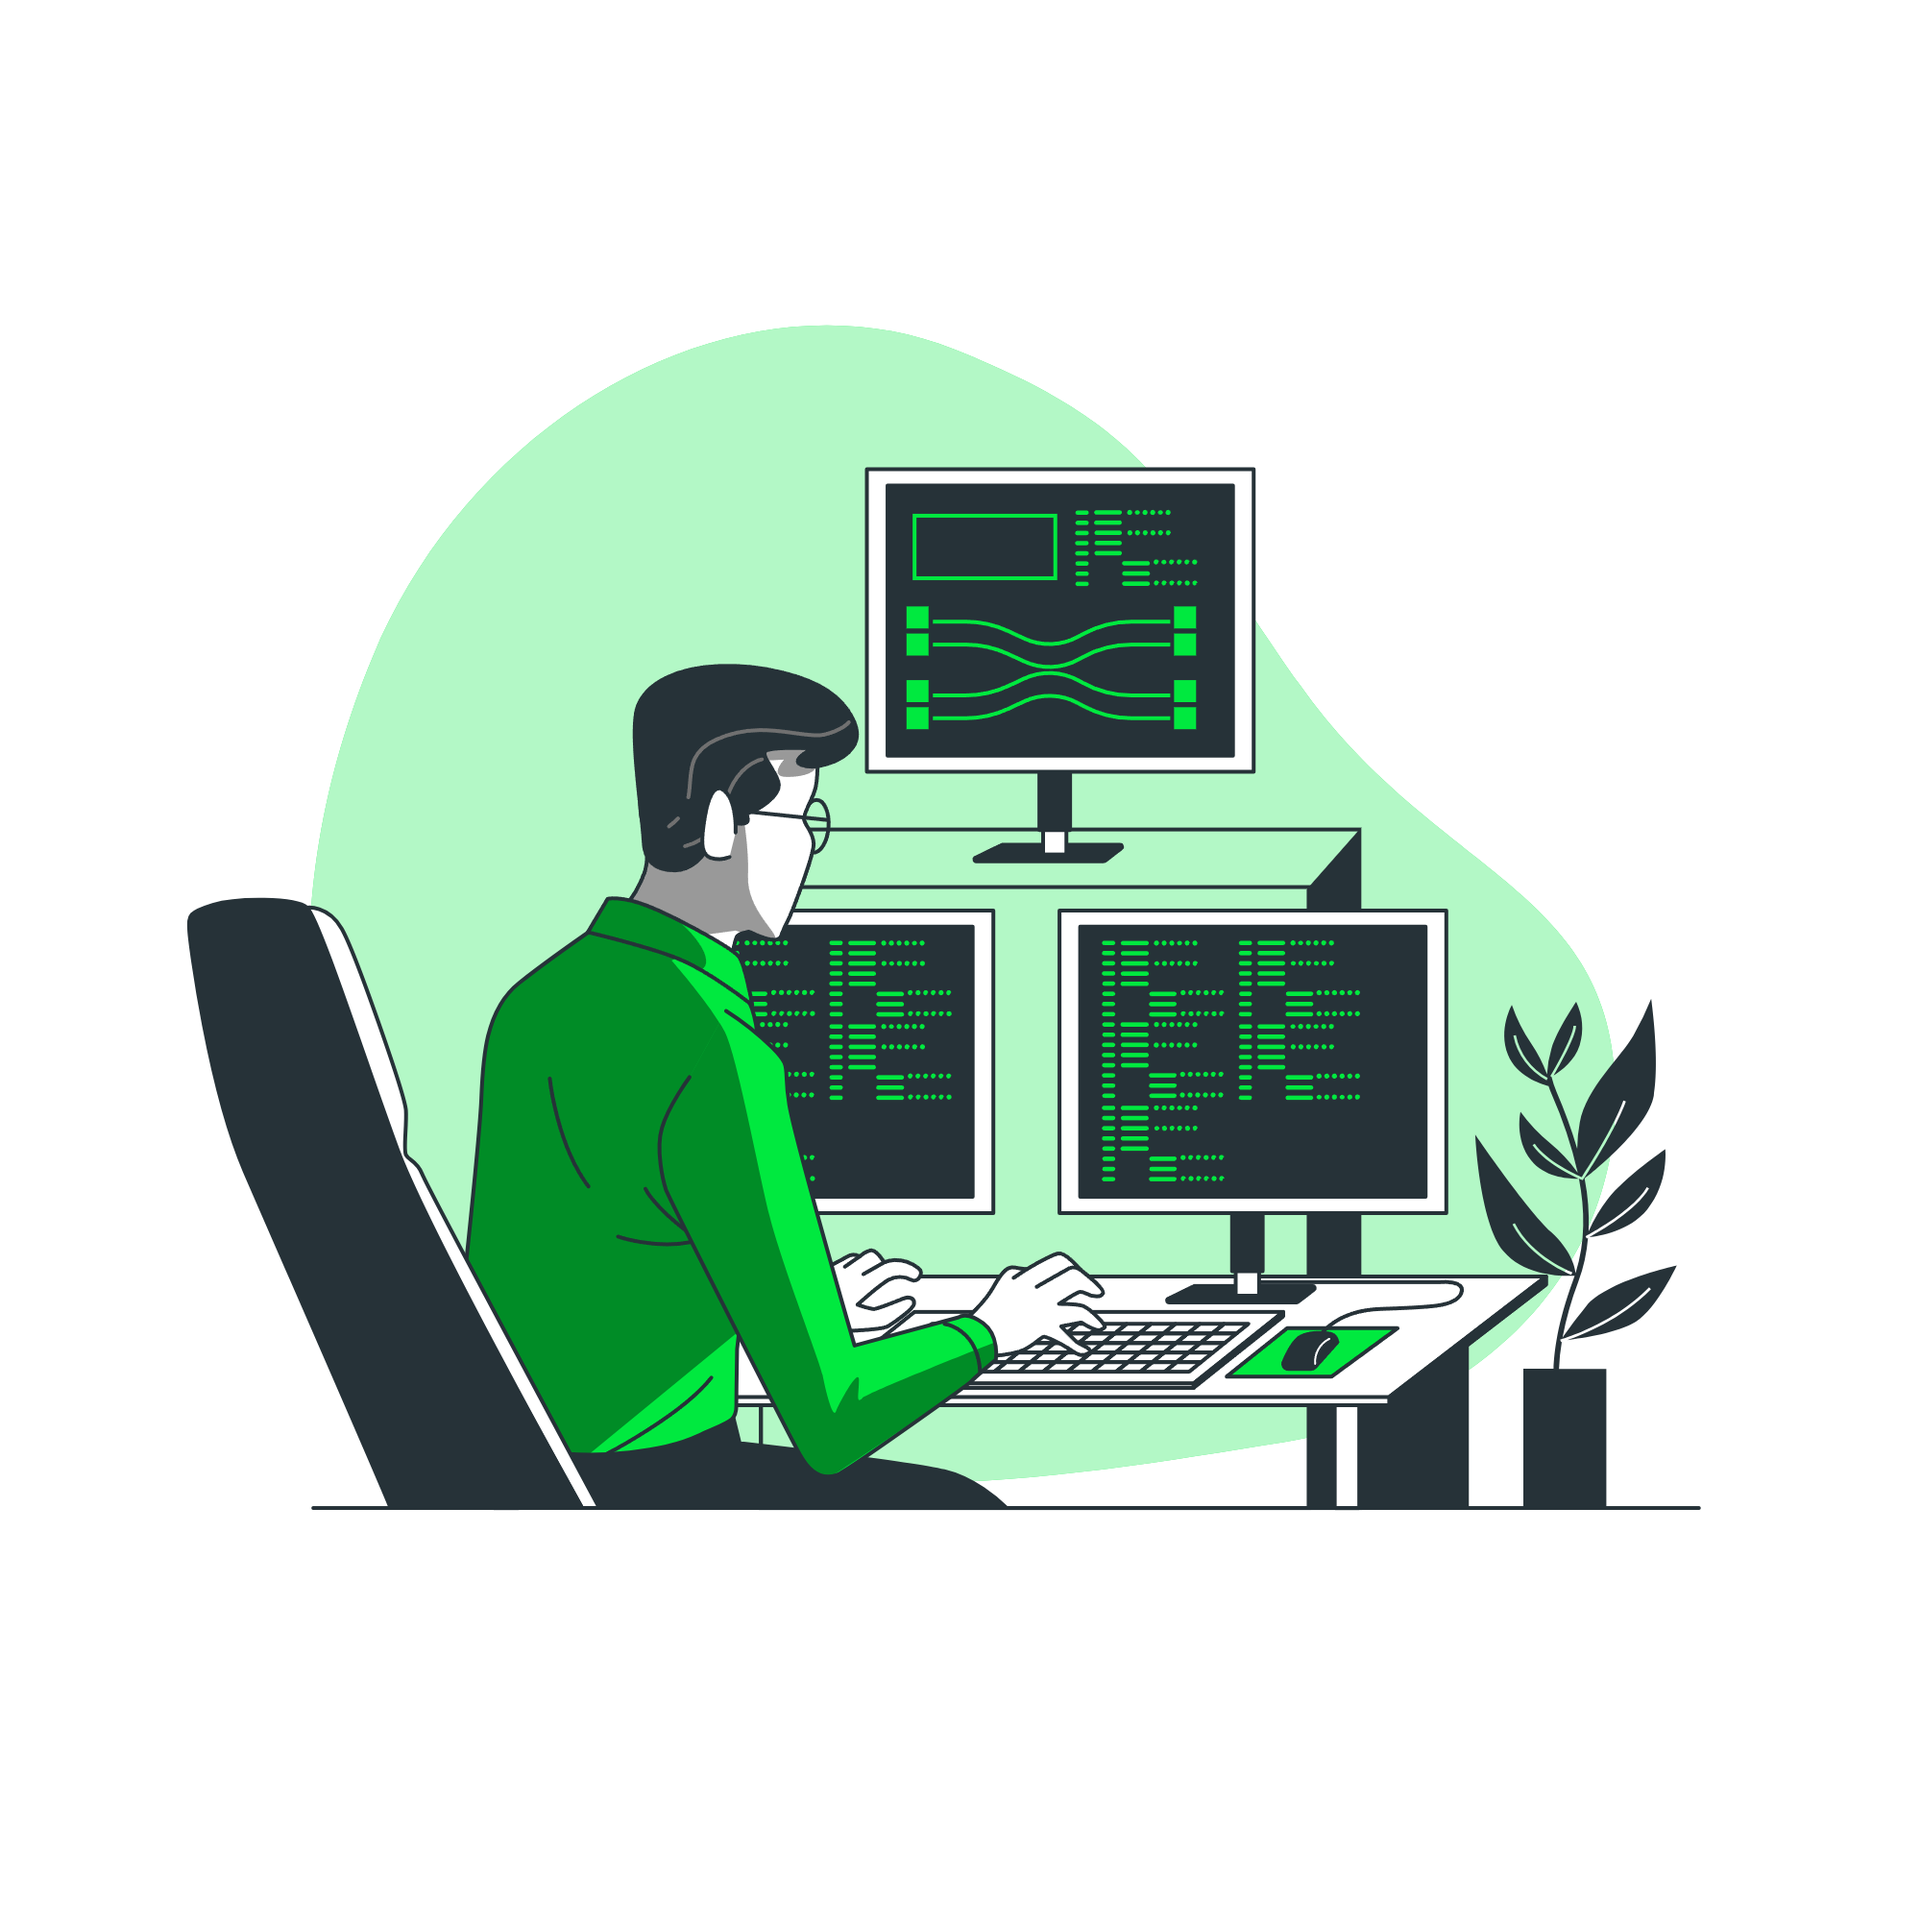
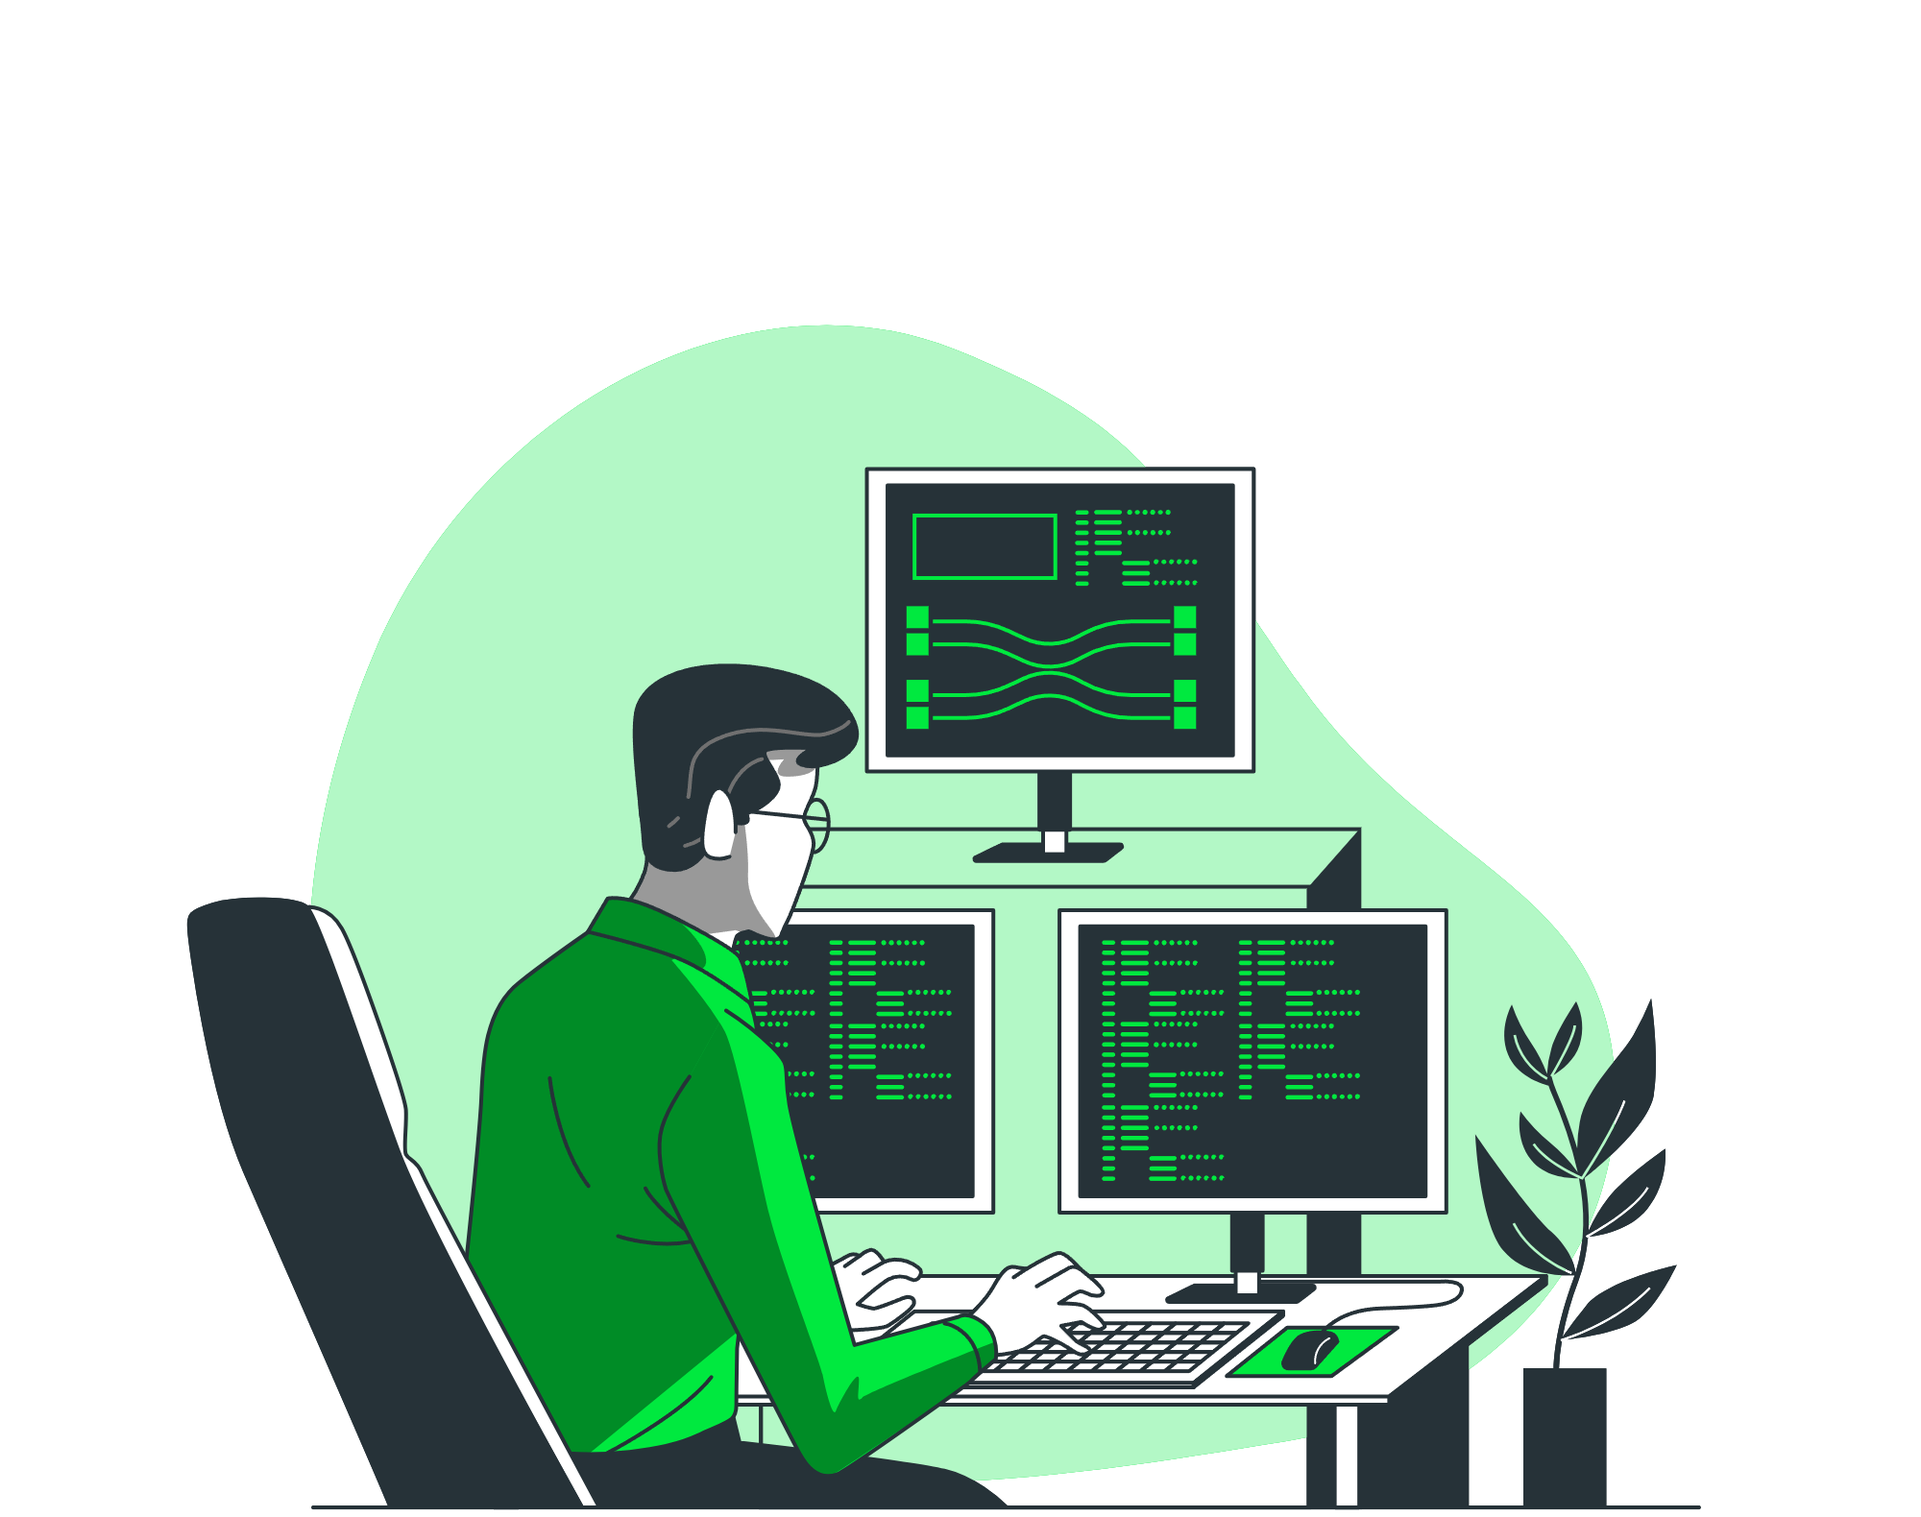
versao celular quase finalizada

diff --git a/estilos/medias.css b/estilos/medias.css
@@ -1,12 +1,18 @@
 @charset "UTF-8";
 
 @media screen and (max-width:767px){
+
+body{
+    
+    overflow: hidden;
+
+}
 main > .sess-1 > p{
     display: none;
 }
 
 .minim{
-   width: 400px; 
+   width: 500px; 
    height: 400px;
 }
 
@@ -16,7 +22,57 @@ nav{
 
 header{
     display: flex;
+    align-items: center;
+    justify-content: center;
+
+
 }
 
+header > h1{
+    margin-left: 0px;
+    font-size: 2.6em;
+
+}
+
+main{
+    display: flex;
+    flex-direction: column-reverse;
+}
+
+.tit{
+    font-size: 1.4em;
+    margin: none;
+    padding: none;
+
+}
+
+.sess-1{
+    display: flex;
+    flex-direction: column;
+    align-items: center;
+    justify-content: center;
+
+}
+input{
+    width: 100%;
+}
+form{
+    display: flex;
+    flex-direction: column;
+    align-items: center;
+    width: 100%;
+}
+
+form > input{
+    width: 100vw;
+}
+
+#inome{
+    width: 65vw;
+}
+
+#iemail{
+    width: 65vw;
+}
 
 }

diff --git a/Index.html b/Index.html
@@ -43,7 +43,7 @@
     </div>
 </form>
 </section>
-<section>
+<section class="sess-2">
 <img class="minim" src="Programming-bro.png" alt="Homem no compuatador">
 </section>
     </main>
